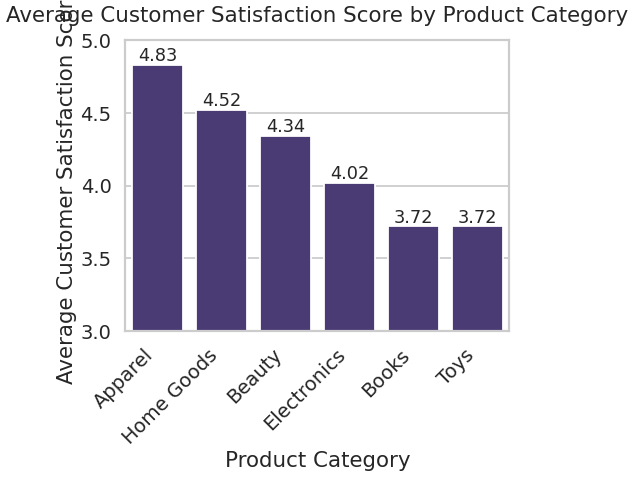
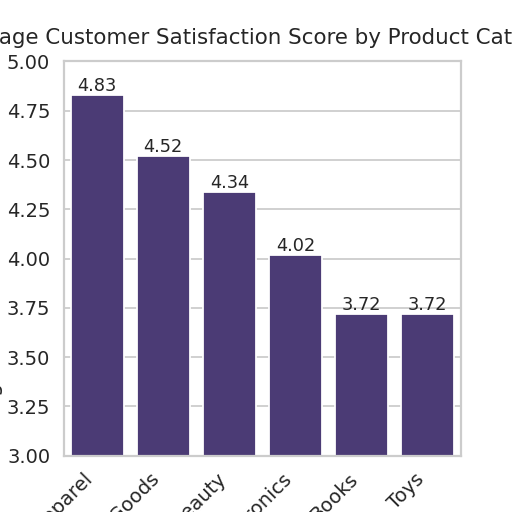
changes to a4

diff --git a/chart.py b/chart.py
@@ -4,37 +4,32 @@ import matplotlib.pyplot as plt
 import numpy as np
 
 # 1. Generate Realistic Synthetic Data
-# Create a DataFrame with product categories and associated customer satisfaction scores.
-np.random.seed(42) # for reproducibility
+np.random.seed(42)
 data = {
     'Product_Category': ['Electronics', 'Apparel', 'Home Goods', 'Beauty', 'Books', 'Toys'],
     'Customer_Satisfaction_Score': np.random.uniform(3.5, 4.9, 6).round(2)
 }
 df = pd.DataFrame(data)
-
-# Sort the data for better visualization
 df = df.sort_values(by='Customer_Satisfaction_Score', ascending=False)
 
-# 2. Set Professional Styling for the Chart
-sns.set_theme(style="whitegrid", palette="viridis") # A professional-looking theme
-sns.set_context("poster") # Context for presentation-ready text
+# 2. Set Professional Styling
+sns.set_theme(style="whitegrid", palette="viridis")
+sns.set_context("poster")
 
 # 3. Create the Bar Plot
-plt.figure(figsize=(8, 8)) # This sets the figure size for 512x512 pixel output at 64 dpi
+# Set a slightly larger figure size to ensure all elements fit without `bbox_inches`
+plt.figure(figsize=(8, 8)) 
 
-# Create the bar plot using sns.barplot()
 ax = sns.barplot(
     data=df,
     x='Product_Category',
     y='Customer_Satisfaction_Score'
 )
 
-# Add titles and labels for clarity
 plt.title('Average Customer Satisfaction Score by Product Category', pad=20)
 plt.xlabel('Product Category')
 plt.ylabel('Average Customer Satisfaction Score')
 
-# Add score labels on top of each bar for precise values
 for p in ax.patches:
     ax.annotate(f'{p.get_height():.2f}', 
                 (p.get_x() + p.get_width() / 2., p.get_height()),
@@ -43,12 +38,13 @@ for p in ax.patches:
                 textcoords='offset points',
                 fontsize=20)
 
-# 4. Final Adjustments and Export
-plt.ylim(3.0, 5.0) # Set a consistent y-axis scale for better comparison
-plt.xticks(rotation=45, ha='right') # Rotate x-axis labels for readability
-plt.tight_layout() # Adjust layout to prevent labels from being cut off
+plt.ylim(3.0, 5.0)
+plt.xticks(rotation=45, ha='right')
 
-# Save the chart as a PNG file with exactly 512x512 pixel dimensions
-plt.savefig('chart.png', dpi=64, bbox_inches='tight')
+# 4. Save the chart with the correct dpi and remove bbox_inches='tight'
+# 512 pixels / 8 inches = 64 dpi
+# The final command should be:
+plt.savefig('chart.png', dpi=64)
+# Make sure no other plotting commands come after this line.
 
-print("chart.png has been generated with 512x512 dimensions.")
+print("chart.png has been generated with 512x512 pixel dimensions.")
